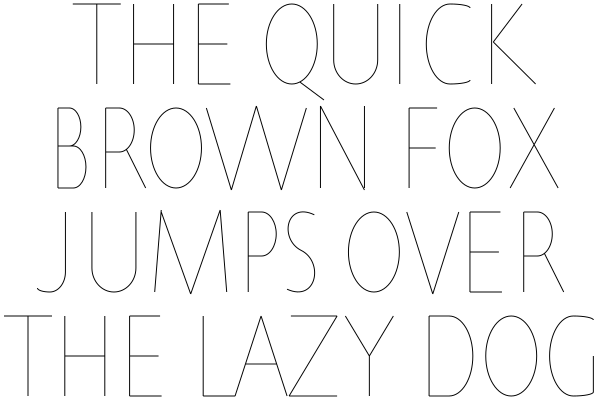
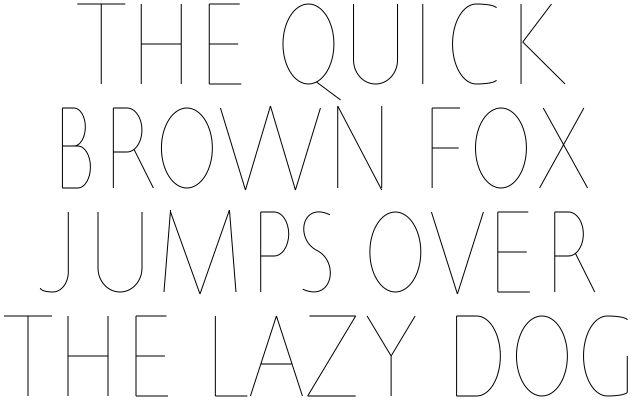
Support shearing

diff --git a/README.md b/README.md
@@ -115,3 +115,14 @@ cabal run trajans -- --xcompr \
 
 ![](examples/compressed.png)
 
+Then, we can set a slope (in degrees):
+
+```
+cabal run trajans -- --slope 5 \
+  --xcompr \
+  -o examples/sloped.png \
+  -h 400 \
+  --text $'The quick\nbrown fox\njumps over\nthe lazy dog'
+```
+
+![](examples/sloped.png)
